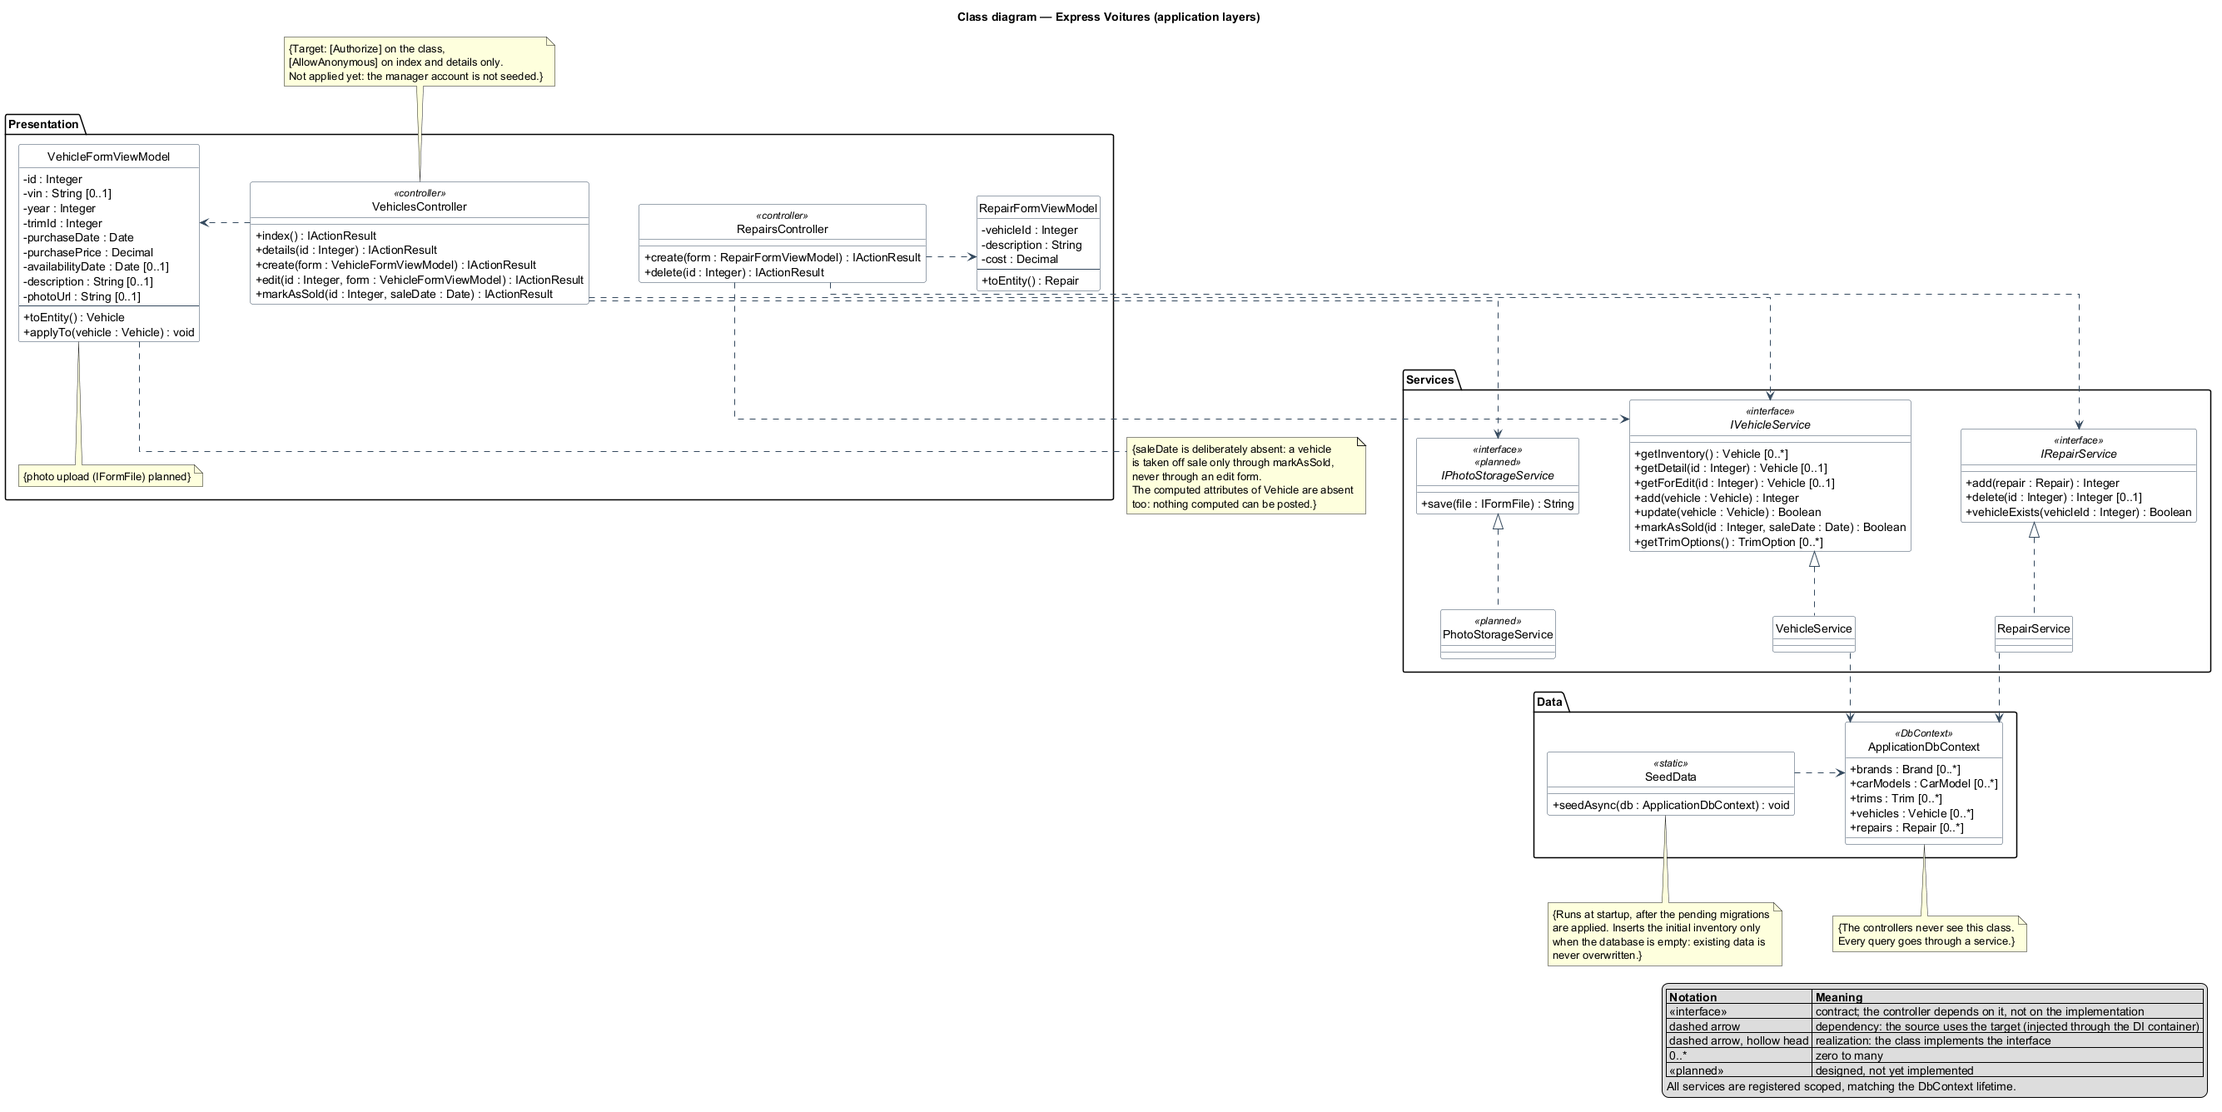
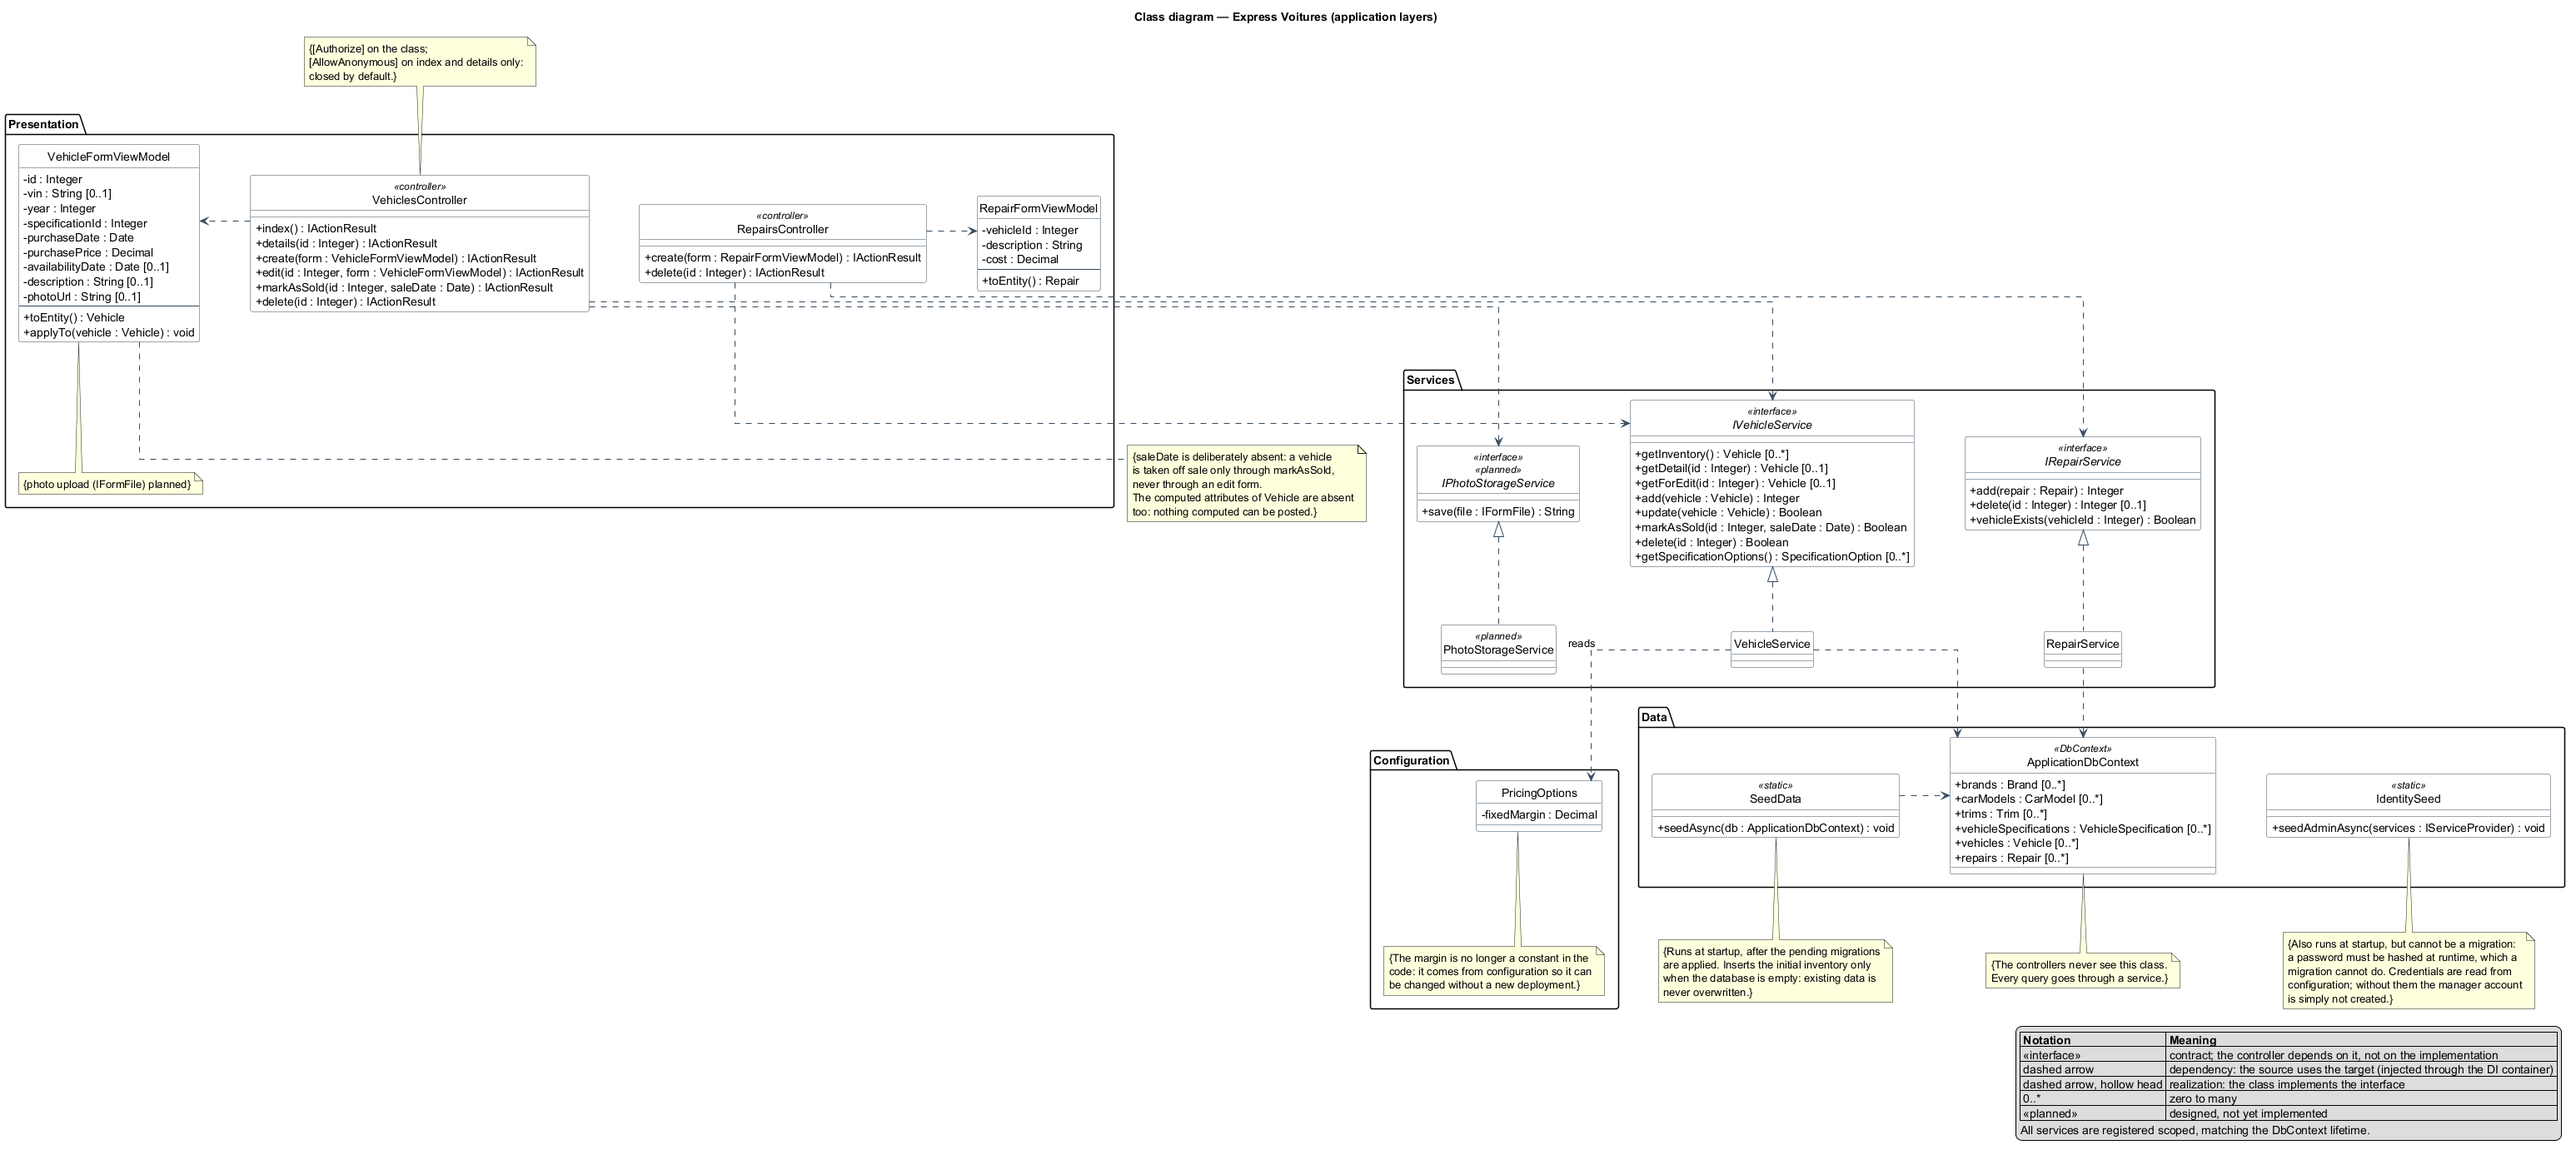
Refond les diagrammes UML autour de la table de specification

diff --git a/docs/uml/README.md b/docs/uml/README.md
@@ -2,7 +2,7 @@
 
 | Fichier | Contenu |
 |---|---|
-| `data-model.puml` | Diagramme de classes du domaine — les cinq entités persistées |
+| `data-model.puml` | Diagramme de classes du domaine — les six entités persistées |
 | `architecture.puml` | Diagramme de classes des couches applicatives — contrôleurs, services, accès aux données |
 
 Les `.puml` sont la source ; les `.png` sont des artefacts régénérables,
@@ -51,16 +51,20 @@ java -jar "C:\Program Files\PlantUML\plantuml.jar" -checkonly docs\uml\*.puml
 
 ## État de synchronisation avec le code
 
-`data-model.puml` décrit les entités **après** le renommage anglais.
+`data-model.puml` décrit les six entités persistées, `VehicleSpecification`
+comprise : le véhicule ne porte plus qu'une clé étrangère vers cette table,
+qui porte elle-même le triplet marque + modèle + finition.
 
-`architecture.puml` décrit l'**architecture cible**. Les services, les
-ViewModels et le `RepairsController` existent désormais dans le code ; seuls
-le stockage de photo (`IPhotoStorageService`/`PhotoStorageService`, stéréotypés
-`<<planned>>`) et les attributs `[Authorize]`/`[AllowAnonymous]` restent
-planifiés, faute de compte gestionnaire seedé.
+`architecture.puml` décrit l'architecture telle qu'elle existe dans le code.
+Les services, les ViewModels, le `RepairsController` et les attributs
+`[Authorize]`/`[AllowAnonymous]` existent désormais tous ; seul le stockage de
+photo (`IPhotoStorageService`/`PhotoStorageService`, stéréotypés `<<planned>>`)
+reste à faire.
 
 ## Règle de mise à jour
 
 Toute modification d'une entité, d'une signature de service, d'une action de
 contrôleur ou d'un attribut `[Authorize]` doit être reportée ici dans le même
-commit. Un diagramme qui ne décrit plus le code est pire que pas de diagramme.
+commit. Toute modification d'une relation entre entités (cardinalité, ajout ou
+retrait d'une association) se reporte elle aussi ici dans le même commit. Un
+diagramme qui ne décrit plus le code est pire que pas de diagramme.
